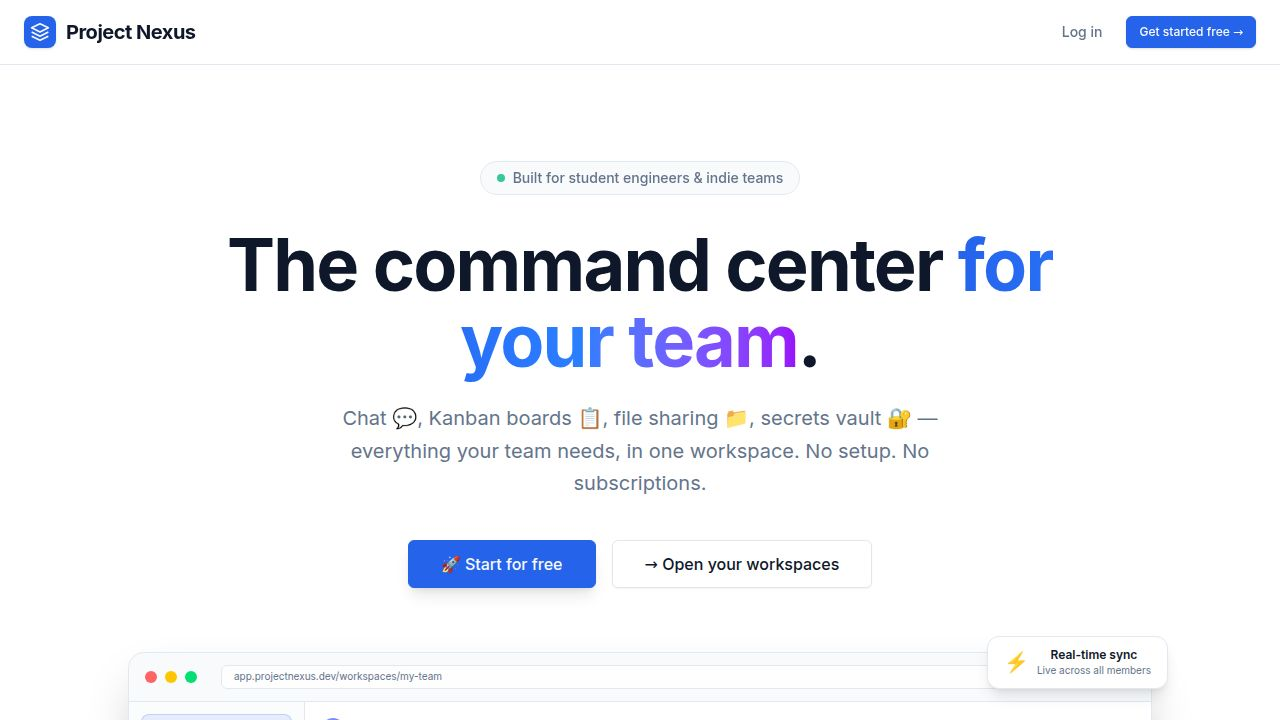
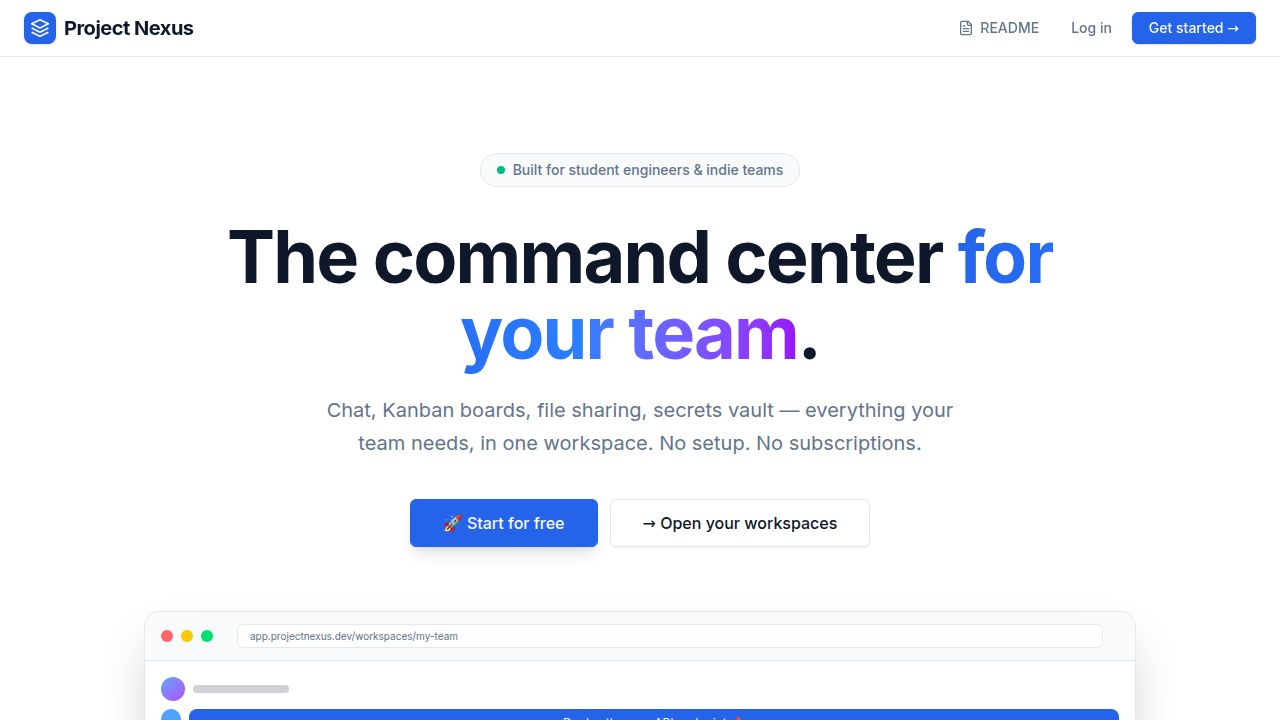
Add overdue task indicators and assignment notifications to the workspace
Implements overdue task highlighting in Kanban and Task views, introduces assignment notifications via the API, and adds a check-overdue mechanism to the TasksTab component on mount.

Replit-Commit-Author: Agent
Replit-Commit-Session-Id: 00b64378-4da5-4887-89f2-649c7a82b117
Replit-Commit-Checkpoint-Type: full_checkpoint
Replit-Commit-Event-Id: 681cfeac-0ce3-47c7-bdbc-2ab1990b5d36
Replit-Commit-Screenshot-Url: https://storage.googleapis.com/screenshot-production-us-central1/a5ed88c3-a0ef-45c8-9c99-1625e8c82e30/00b64378-4da5-4887-89f2-649c7a82b117/5kkOS4s
Replit-Helium-Checkpoint-Created: true

diff --git a/artifacts/api-server/src/routes/tasks.ts b/artifacts/api-server/src/routes/tasks.ts
@@ -1,10 +1,26 @@
 import { Router, type IRouter } from "express";
-import { db, tasksTable, usersTable, workspaceMembersTable } from "@workspace/db";
-import { eq, and } from "drizzle-orm";
+import { db, tasksTable, usersTable, workspaceMembersTable, notificationsTable } from "@workspace/db";
+import { eq, and, lt, ne, isNotNull } from "drizzle-orm";
 import { requireAuth } from "../middlewares/requireAuth";
 import { recordActivity } from "../lib/recordActivity";
 
 const router: IRouter = Router();
+
+async function createAssignmentNotification(opts: {
+  workspaceId: string;
+  assigneeId: string;
+  taskId: string;
+  taskTitle: string;
+  assignerName: string;
+}) {
+  await db.insert(notificationsTable).values({
+    userId: opts.assigneeId,
+    workspaceId: opts.workspaceId,
+    type: "task_assigned",
+    title: `New task assigned`,
+    body: `${opts.assignerName} assigned you to "${opts.taskTitle}"`,
+  });
+}
 
 router.get("/workspaces/:workspaceId/tasks", requireAuth, async (req: any, res): Promise<void> => {
   try {
@@ -90,6 +106,16 @@ router.post("/workspaces/:workspaceId/tasks", requireAuth, async (req: any, res)
     res.status(201).json({ ...task, assignee, creator: { id: user[0].id, name: user[0].name, avatarUrl: user[0].avatarUrl, email: user[0].email } });
 
     recordActivity({ workspaceId, userId: user[0].id, type: "task_created", payload: { taskId: task.id, taskTitle: task.title, status: task.status } }).catch(() => {});
+
+    if (task.assigneeId && task.assigneeId !== user[0].id) {
+      createAssignmentNotification({
+        workspaceId,
+        assigneeId: task.assigneeId,
+        taskId: task.id,
+        taskTitle: task.title,
+        assignerName: user[0].name,
+      }).catch(() => {});
+    }
   } catch (err) {
     req.log.error({ err }, "Failed to create task");
     res.status(500).json({ error: "Internal server error" });
@@ -110,7 +136,6 @@ router.patch("/workspaces/:workspaceId/tasks/:taskId", requireAuth, async (req: 
 
     const { title, description, status, priority, assigneeId, dueDate } = req.body;
 
-    // Read current state to detect what changed
     const existing = await db.select().from(tasksTable).where(and(eq(tasksTable.id, taskId), eq(tasksTable.workspaceId, workspaceId))).limit(1);
     if (!existing[0]) { res.status(404).json({ error: "Task not found" }); return; }
     const before = existing[0];
@@ -139,15 +164,23 @@ router.patch("/workspaces/:workspaceId/tasks/:taskId", requireAuth, async (req: 
 
     res.json({ ...updated, assignee, creator: creator[0] ?? null });
 
-    // Fire-and-forget activity events for each changed field
     if (status !== undefined && status !== before.status) {
       recordActivity({ workspaceId, userId: user[0].id, type: "task_status_changed", payload: { taskId: updated.id, taskTitle: updated.title, oldStatus: before.status, newStatus: status } }).catch(() => {});
     }
     if (priority !== undefined && priority !== before.priority) {
       recordActivity({ workspaceId, userId: user[0].id, type: "task_priority_changed", payload: { taskId: updated.id, taskTitle: updated.title, oldPriority: before.priority, newPriority: priority } }).catch(() => {});
     }
-    if (assigneeId !== undefined && assigneeId !== before.assigneeId && assignee) {
+    if (assigneeId !== undefined && assigneeId !== before.assigneeId && assigneeId && assignee) {
       recordActivity({ workspaceId, userId: user[0].id, type: "task_assigned", payload: { taskId: updated.id, taskTitle: updated.title, assigneeName: assignee.name } }).catch(() => {});
+      if (assigneeId !== user[0].id) {
+        createAssignmentNotification({
+          workspaceId,
+          assigneeId,
+          taskId: updated.id,
+          taskTitle: updated.title,
+          assignerName: user[0].name,
+        }).catch(() => {});
+      }
     }
   } catch (err) {
     req.log.error({ err }, "Failed to update task");
@@ -178,6 +211,77 @@ router.delete("/workspaces/:workspaceId/tasks/:taskId", requireAuth, async (req:
     res.json({ success: true });
   } catch (err) {
     req.log.error({ err }, "Failed to delete task");
+    res.status(500).json({ error: "Internal server error" });
+  }
+});
+
+router.post("/workspaces/:workspaceId/tasks/check-overdue", requireAuth, async (req: any, res): Promise<void> => {
+  try {
+    const clerkUserId = req.clerkUserId;
+    const { workspaceId } = req.params;
+    const user = await db.select().from(usersTable).where(eq(usersTable.clerkId, clerkUserId)).limit(1);
+    if (!user[0]) { res.status(404).json({ error: "User not found" }); return; }
+
+    const membership = await db.select().from(workspaceMembersTable)
+      .where(and(eq(workspaceMembersTable.workspaceId, workspaceId), eq(workspaceMembersTable.userId, user[0].id)))
+      .limit(1);
+    if (!membership[0]) { res.status(403).json({ error: "Access denied" }); return; }
+
+    const now = new Date();
+
+    const overdueTasks = await db.select({
+      id: tasksTable.id,
+      title: tasksTable.title,
+      dueDate: tasksTable.dueDate,
+    })
+      .from(tasksTable)
+      .where(
+        and(
+          eq(tasksTable.workspaceId, workspaceId),
+          eq(tasksTable.assigneeId, user[0].id),
+          isNotNull(tasksTable.dueDate),
+          lt(tasksTable.dueDate, now),
+          ne(tasksTable.status, "done"),
+        )
+      );
+
+    const existingOverdue = await db.select({ body: notificationsTable.body })
+      .from(notificationsTable)
+      .where(
+        and(
+          eq(notificationsTable.userId, user[0].id),
+          eq(notificationsTable.workspaceId, workspaceId),
+          eq(notificationsTable.type, "task_overdue"),
+          eq(notificationsTable.isRead, false),
+        )
+      );
+
+    const alreadyNotified = new Set(
+      existingOverdue.map(n => {
+        const match = n.body.match(/\[([^\]]+)\]/);
+        return match ? match[1] : null;
+      }).filter(Boolean)
+    );
+
+    let created = 0;
+    for (const task of overdueTasks) {
+      if (alreadyNotified.has(task.id)) continue;
+      const dueStr = task.dueDate
+        ? new Date(task.dueDate).toLocaleDateString("en-US", { month: "short", day: "numeric" })
+        : "unknown";
+      await db.insert(notificationsTable).values({
+        userId: user[0].id,
+        workspaceId,
+        type: "task_overdue",
+        title: "Task overdue",
+        body: `[${task.id}] "${task.title}" was due on ${dueStr}`,
+      });
+      created++;
+    }
+
+    res.json({ checked: overdueTasks.length, created });
+  } catch (err) {
+    req.log.error({ err }, "Failed to check overdue tasks");
     res.status(500).json({ error: "Internal server error" });
   }
 });

diff --git a/artifacts/project-nexus/src/components/workspace/tasks-tab.tsx b/artifacts/project-nexus/src/components/workspace/tasks-tab.tsx
@@ -1,5 +1,6 @@
-import { useState } from "react";
+import { useState, useEffect } from "react";
 import { useQueryClient } from "@tanstack/react-query";
+import { useAuth } from "@clerk/react";
 import {
   useListTasks,
   useCreateTask,
@@ -35,7 +36,6 @@ import {
 } from "@/components/ui/dropdown-menu";
 import {
   Plus,
-  Loader2,
   MoreVertical,
   Trash2,
   Pencil,
@@ -49,8 +49,8 @@ import {
   Minus,
   ArrowDown,
   Calendar,
-  User,
   Save,
+  AlertCircle,
 } from "lucide-react";
 import { useListWorkspaceMembers } from "@workspace/api-client-react";
 import { type LucideIcon } from "lucide-react";
@@ -131,12 +131,19 @@ function TaskCard({
               <span className="text-xs text-muted-foreground">{task.assignee.name}</span>
             </div>
           )}
-          {task.dueDate && (
-            <span className="text-xs text-muted-foreground flex items-center gap-1">
-              <Calendar className={`h-3 w-3 ${CHARCOAL}`} />
-              {new Date(task.dueDate).toLocaleDateString()}
-            </span>
-          )}
+          {task.dueDate && (() => {
+            const overdue = task.status !== "done" && new Date(task.dueDate) < new Date();
+            return (
+              <span className={`text-xs flex items-center gap-1 ${overdue ? "text-destructive font-medium" : "text-muted-foreground"}`}>
+                {overdue
+                  ? <AlertCircle className="h-3 w-3" />
+                  : <Calendar className={`h-3 w-3 ${CHARCOAL}`} />
+                }
+                {overdue ? "Overdue · " : ""}
+                {new Date(task.dueDate).toLocaleDateString("en-US", { month: "short", day: "numeric" })}
+              </span>
+            );
+          })()}
           <span className="text-xs text-muted-foreground">
             by {task.creator?.name ?? "Unknown"}
           </span>
@@ -278,6 +285,21 @@ function TaskFormDialog({
 
 export function TasksTab({ workspaceId, role }: { workspaceId: string; role: string }) {
   const queryClient = useQueryClient();
+  const { getToken } = useAuth();
+
+  useEffect(() => {
+    (async () => {
+      try {
+        const token = await getToken();
+        await fetch(`/api/workspaces/${workspaceId}/tasks/check-overdue`, {
+          method: "POST",
+          headers: { Authorization: `Bearer ${token}` },
+        });
+        queryClient.invalidateQueries({ queryKey: ["notifications"] });
+      } catch {}
+    })();
+  }, [workspaceId]);
+
   const { data: tasks = [], isLoading } = useListTasks(workspaceId, {
     query: { queryKey: getListTasksQueryKey(workspaceId) },
   });

diff --git a/artifacts/project-nexus/src/components/workspace/kanban-board.tsx b/artifacts/project-nexus/src/components/workspace/kanban-board.tsx
@@ -156,11 +156,20 @@ function KanbanCard({
               <Badge variant={priority.badge} className="text-[10px] px-1.5 py-0 h-4">
                 {priority.label}
               </Badge>
+              {task.dueDate && task.status !== "done" && new Date(task.dueDate) < new Date() && (
+                <Badge variant="destructive" className="text-[10px] px-1.5 py-0 h-4 gap-0.5">
+                  Overdue
+                </Badge>
+              )}
             </div>
 
             <div className="flex items-center gap-2">
               {task.dueDate && (
-                <span className="text-[10px] text-muted-foreground">
+                <span className={`text-[10px] flex items-center gap-0.5 ${
+                  task.status !== "done" && new Date(task.dueDate) < new Date()
+                    ? "text-destructive font-medium"
+                    : "text-muted-foreground"
+                }`}>
                   {new Date(task.dueDate).toLocaleDateString("en-US", { month: "short", day: "numeric" })}
                 </span>
               )}